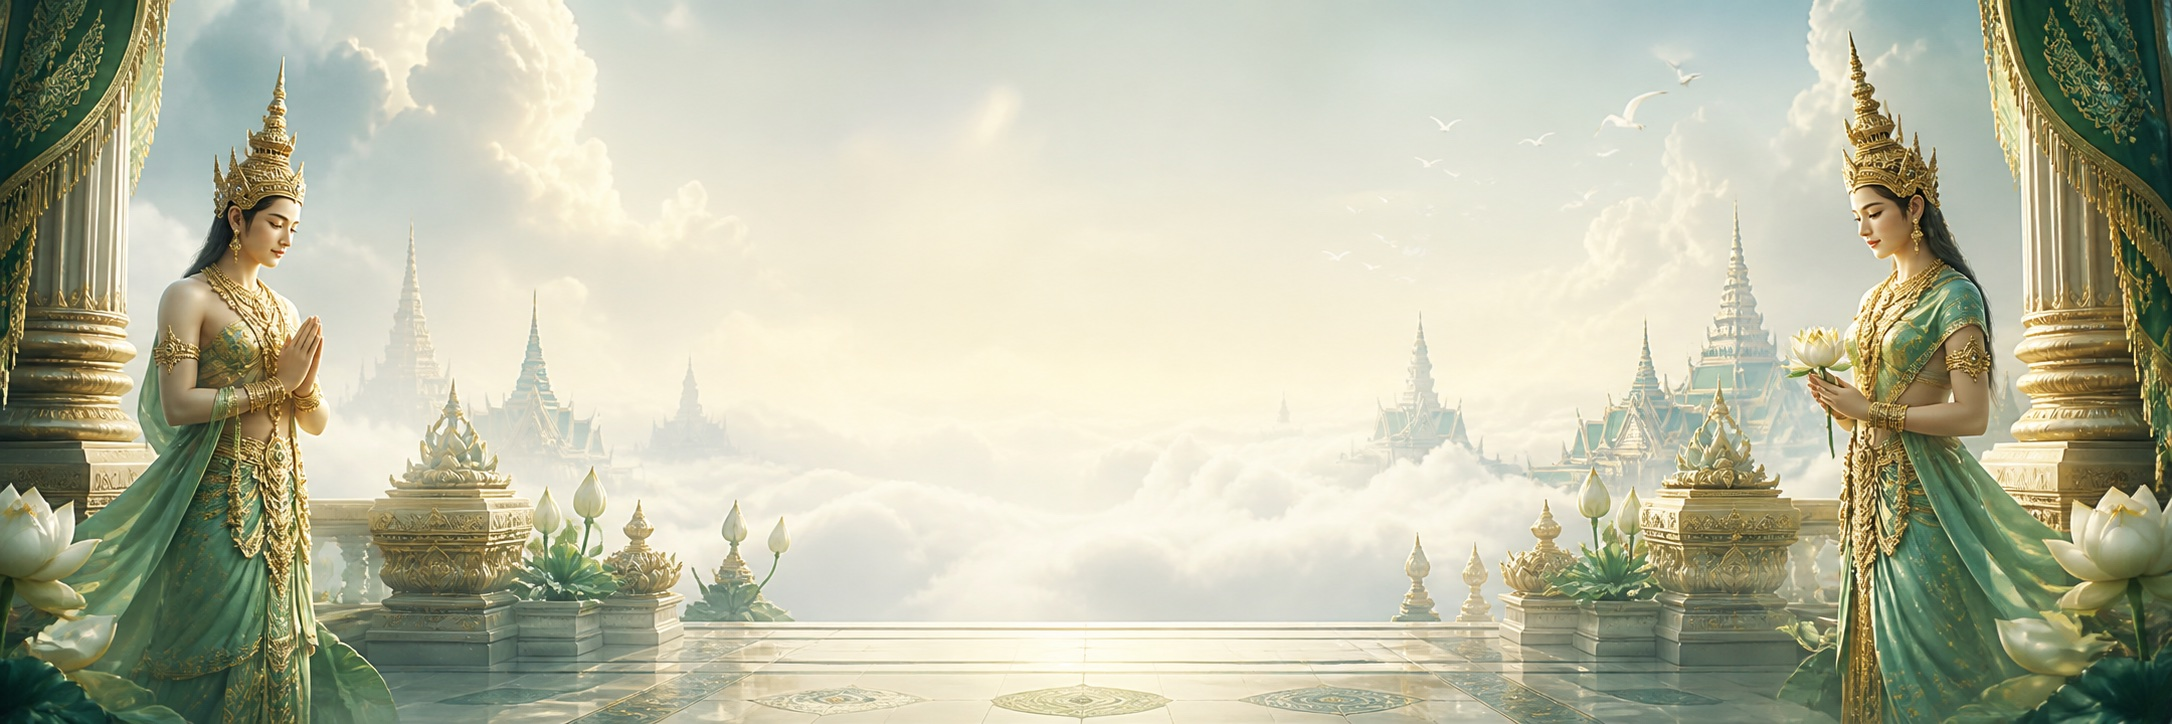
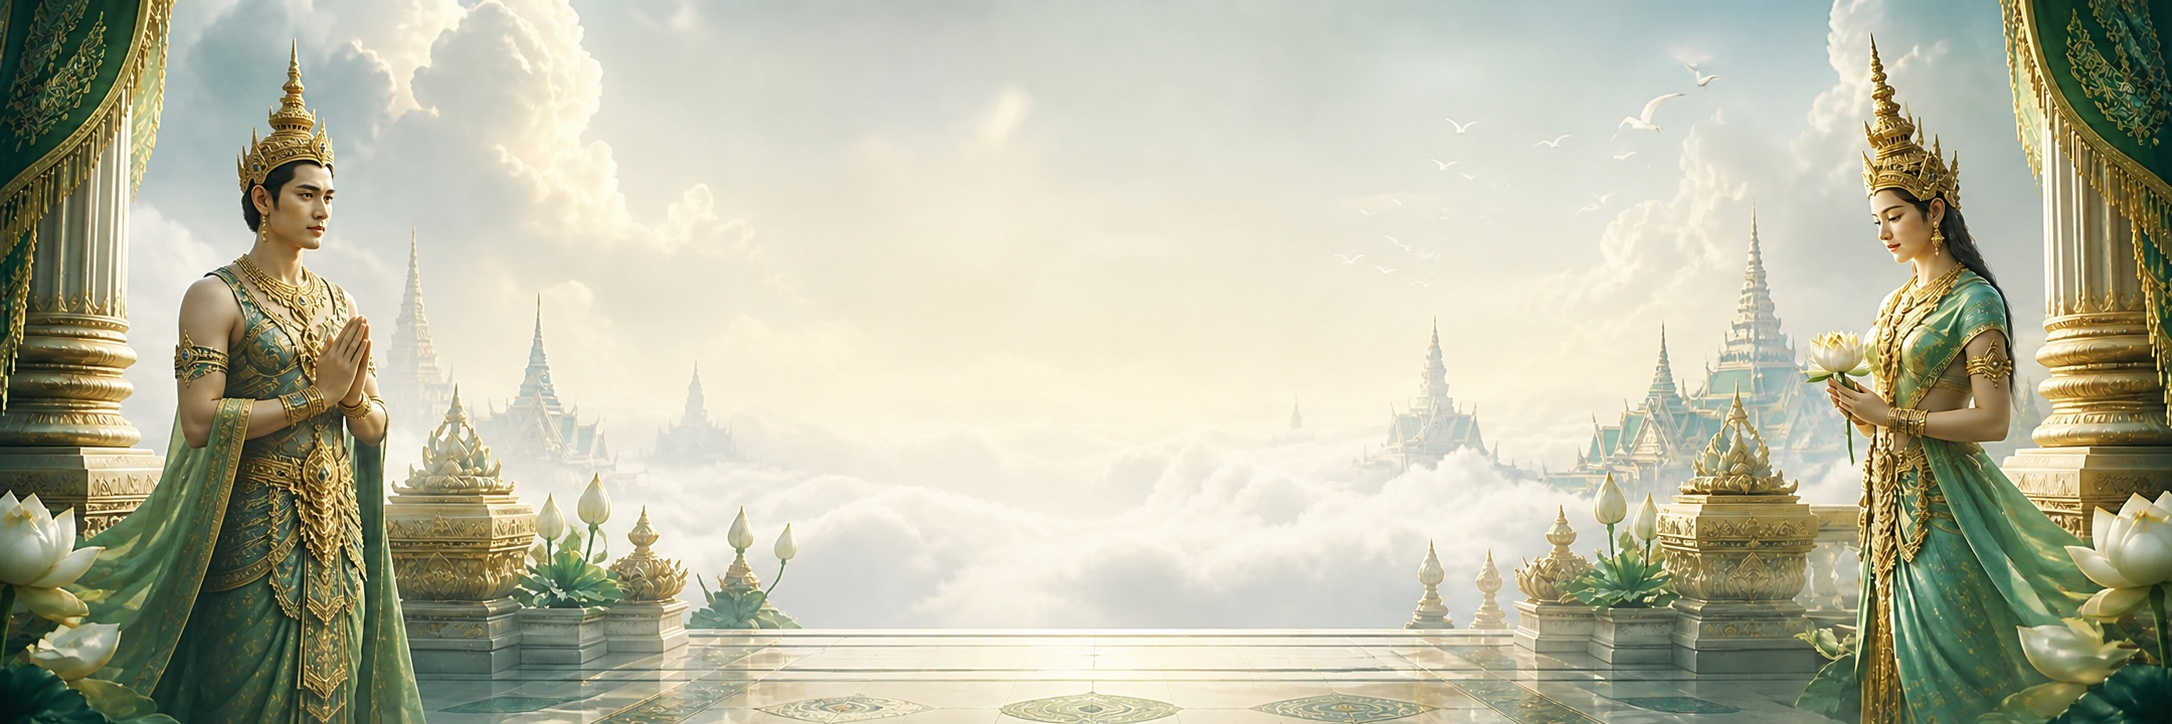
234

Changed region(s): [[0.0, 0.0, 1.0, 1.0], [0.7403, 0.1215, 0.7712, 0.1823], [0.7712, 0.0912, 0.802, 0.1215]]

diff --git a/src/components/public-campaign-view.tsx b/src/components/public-campaign-view.tsx
@@ -1,6 +1,7 @@
 "use client";
 
 import { CircleCheck, HeartHandshake, Info, Landmark, Link2, Search } from "lucide-react";
+import Image from "next/image";
 import { useMemo, useState } from "react";
 import type { PublicCampaignData, PublicCampaignTransaction } from "@/lib/public-campaign";
 import { normalizeTransferText } from "@/lib/text";
@@ -36,11 +37,26 @@ export function PublicCampaignView({ data }: { data: PublicCampaignData }) {
   return (
     <div className="min-h-screen bg-[#f2f6f4] text-[#172522]">
       <header
-        className="relative isolate overflow-hidden border-b border-[#d4c07b] bg-[#e8f0ed] bg-cover bg-center"
-        style={{ backgroundImage: "url('/assets/dhamma-celestial-hero.jpg')" }}
+        className="public-campaign-hero relative isolate overflow-hidden border-b border-[#d4c07b] bg-[#e8f0ed] bg-cover bg-center"
       >
-        <div className="absolute inset-0 -z-10 bg-[#f8fbf9]/80" />
-        <div className="relative mx-auto max-w-6xl px-4 py-6 sm:px-6 sm:py-9 lg:py-12">
+        <Image
+          src="/assets/dhamma-celestial-hero-mobile.jpg"
+          alt=""
+          fill
+          priority
+          sizes="(max-width: 767px) 100vw, 1px"
+          className="object-cover object-top md:hidden"
+        />
+        <Image
+          src="/assets/dhamma-celestial-hero.jpg"
+          alt=""
+          fill
+          priority
+          sizes="(min-width: 768px) 100vw, 1px"
+          className="hidden object-cover object-center md:block"
+        />
+        <div className="absolute inset-0 bg-[#f8fbf9]/55 sm:bg-[#f8fbf9]/75" />
+        <div className="relative z-10 mx-auto max-w-6xl px-4 py-6 sm:px-6 sm:py-9 lg:py-12">
           <div className="grid items-center gap-6 lg:grid-cols-[minmax(0,1.25fr)_minmax(360px,0.75fr)] lg:gap-10">
             <div className="min-w-0">
               <div className="flex flex-wrap items-center gap-2.5">
@@ -56,9 +72,9 @@ export function PublicCampaignView({ data }: { data: PublicCampaignData }) {
               </div>
 
               <p className="mt-6 text-xs font-bold uppercase text-[#8a6b1f] sm:text-sm">
-                Công khai tịnh tài · Cùng gieo duyên lành
+                DĀNA
               </p>
-              <h1 className="mt-2 max-w-3xl break-words text-3xl font-bold leading-tight text-[#123f38] sm:text-4xl">
+              <h1 className="mt-2 max-w-3xl break-words rounded-lg border border-white/80 bg-white/72 px-4 py-3 text-3xl font-bold leading-tight text-[#123f38] shadow-[0_10px_28px_rgba(20,63,56,0.12)] backdrop-blur-md sm:rounded-none sm:border-0 sm:bg-transparent sm:px-0 sm:py-0 sm:text-4xl sm:shadow-none sm:backdrop-blur-none">
                 {data.name}
               </h1>
               {data.description ? (
@@ -93,10 +109,10 @@ export function PublicCampaignView({ data }: { data: PublicCampaignData }) {
       </header>
 
       <main className="mx-auto max-w-6xl px-4 py-5 sm:px-6 sm:py-7">
-        <section className="rounded-lg border border-[#dfd4ad] bg-white p-3 shadow-sm sm:p-5">
+        <section className="rounded-lg border border-[#f0dfaa] bg-white p-3 shadow-[0_10px_30px_rgba(181,137,25,0.08)] sm:p-5">
           <div className="flex flex-col gap-4 sm:flex-row sm:items-center sm:justify-between">
             <div className="flex min-w-0 items-center gap-3">
-              <span className="flex h-11 w-11 shrink-0 items-center justify-center rounded-lg bg-[#9a7721] text-white shadow-sm">
+              <span className="flex h-11 w-11 shrink-0 items-center justify-center rounded-lg bg-[#e6a817] text-white shadow-sm">
                 <HeartHandshake className="h-5 w-5" />
               </span>
               <div className="min-w-0">
@@ -114,7 +130,7 @@ export function PublicCampaignView({ data }: { data: PublicCampaignData }) {
                 value={query}
                 onChange={(event) => setQuery(event.target.value)}
                 placeholder="Tìm theo phương danh hoặc nội dung"
-                className="min-h-10 w-full rounded-md border border-[#d8bd63] bg-[#fffdf7] py-2.5 pl-9 pr-3 text-sm outline-none focus:border-[#9a7721] focus:ring-2 focus:ring-[#f3e7bd]"
+                className="min-h-10 w-full rounded-md border border-[#efd27a] bg-[#fffef9] py-2.5 pl-9 pr-3 text-sm outline-none focus:border-[#e6a817] focus:ring-2 focus:ring-[#fff0b8]"
               />
             </div>
           </div>
@@ -126,10 +142,10 @@ export function PublicCampaignView({ data }: { data: PublicCampaignData }) {
             {filteredTransactions.length === 0 ? <EmptyState /> : null}
           </div>
 
-          <div className="mt-5 hidden overflow-hidden rounded-lg border border-[#dfd4ad] md:block">
+          <div className="mt-5 hidden overflow-hidden rounded-lg border border-[#f0dfaa] md:block">
             <div className="max-h-[720px] overflow-auto">
               <table className="w-full min-w-[820px] text-left text-sm">
-                <thead className="sticky top-0 bg-[#f8f1d8] text-xs uppercase text-[#5d5a50]">
+                <thead className="sticky top-0 bg-[#fff8dc] text-xs uppercase text-[#5d5a50]">
                   <tr>
                     <th className="px-4 py-3">Ngày</th>
                     <th className="px-4 py-3">Phương danh thí chủ hùn phước</th>
@@ -137,7 +153,7 @@ export function PublicCampaignView({ data }: { data: PublicCampaignData }) {
                     <th className="px-4 py-3 text-right">Số tiền</th>
                   </tr>
                 </thead>
-                <tbody className="divide-y divide-[#eee7d2] bg-white">
+                <tbody className="divide-y divide-[#f4ecd3] bg-white">
                   {filteredTransactions.map((transaction) => (
                     <PublicTransactionRow key={transaction.id} transaction={transaction} />
                   ))}
@@ -168,9 +184,9 @@ function PublicTransactionCard({
   const meta = transactionMeta(transaction);
 
   return (
-    <article className="overflow-hidden rounded-lg border border-[#d5b759] bg-white shadow-sm">
-      <div className={`grid grid-cols-[auto_minmax(0,1fr)] gap-3 border-b border-[#e2cc82] p-3 ${meta.cardHeaderClassName}`}>
-        <span className="flex h-10 w-10 shrink-0 items-center justify-center rounded-full border border-[#d0ad43] bg-white text-sm font-bold text-[#806117] shadow-sm">
+    <article className="overflow-hidden rounded-lg border border-[#f0d377] bg-white shadow-[0_6px_18px_rgba(205,151,13,0.09)]">
+      <div className={`grid grid-cols-[auto_minmax(0,1fr)] gap-3 border-b border-[#f3dfa0] p-3 ${meta.cardHeaderClassName}`}>
+        <span className="flex h-10 w-10 shrink-0 items-center justify-center rounded-full border border-[#f1c952] bg-[#fffdf5] text-sm font-bold text-[#c47d00] shadow-sm">
           {index.toLocaleString("vi-VN")}
         </span>
         <div className="flex min-w-0 items-start justify-between gap-2">
@@ -180,7 +196,7 @@ function PublicTransactionCard({
               {meta.label}
             </div>
           </div>
-          <div className="shrink-0 rounded-full border border-[#dbc474] bg-white px-3 py-2 text-right shadow-sm">
+          <div className="shrink-0 rounded-full border border-[#f0d377] bg-white px-3 py-2 text-right shadow-[0_3px_10px_rgba(205,151,13,0.1)]">
             <span className={`whitespace-nowrap text-sm font-bold ${meta.amountClassName}`}>
               {money(meta.amount)}
             </span>
@@ -201,7 +217,7 @@ function PublicTransactionRow({ transaction }: { transaction: PublicCampaignTran
   const meta = transactionMeta(transaction);
 
   return (
-    <tr className="hover:bg-[#fffaf0]">
+    <tr className="transition-colors hover:bg-[#fffdf4]">
       <td className="whitespace-nowrap px-4 py-3 align-top text-[#676b67]">{dateOnly(transaction.transactionDate)}</td>
       <td className="max-w-2xl px-4 py-3 align-top">
         <div className="whitespace-pre-wrap break-words font-semibold text-[#222724]">{transaction.description}</div>
@@ -288,9 +304,9 @@ function transactionMeta(transaction: PublicCampaignTransaction) {
     return {
       label: "Hùn phước",
       amount: transaction.creditAmount,
-      className: "border-[#c9aa45] bg-[#fff8df] text-[#765713]",
-      amountClassName: "text-[#6d5111]",
-      cardHeaderClassName: "bg-[#fff9e8]",
+      className: "border-[#8be0c1] bg-[#eafff7] text-[#08785c]",
+      amountClassName: "text-[#d88b00]",
+      cardHeaderClassName: "bg-[#fffdf5]",
     };
   }
 
